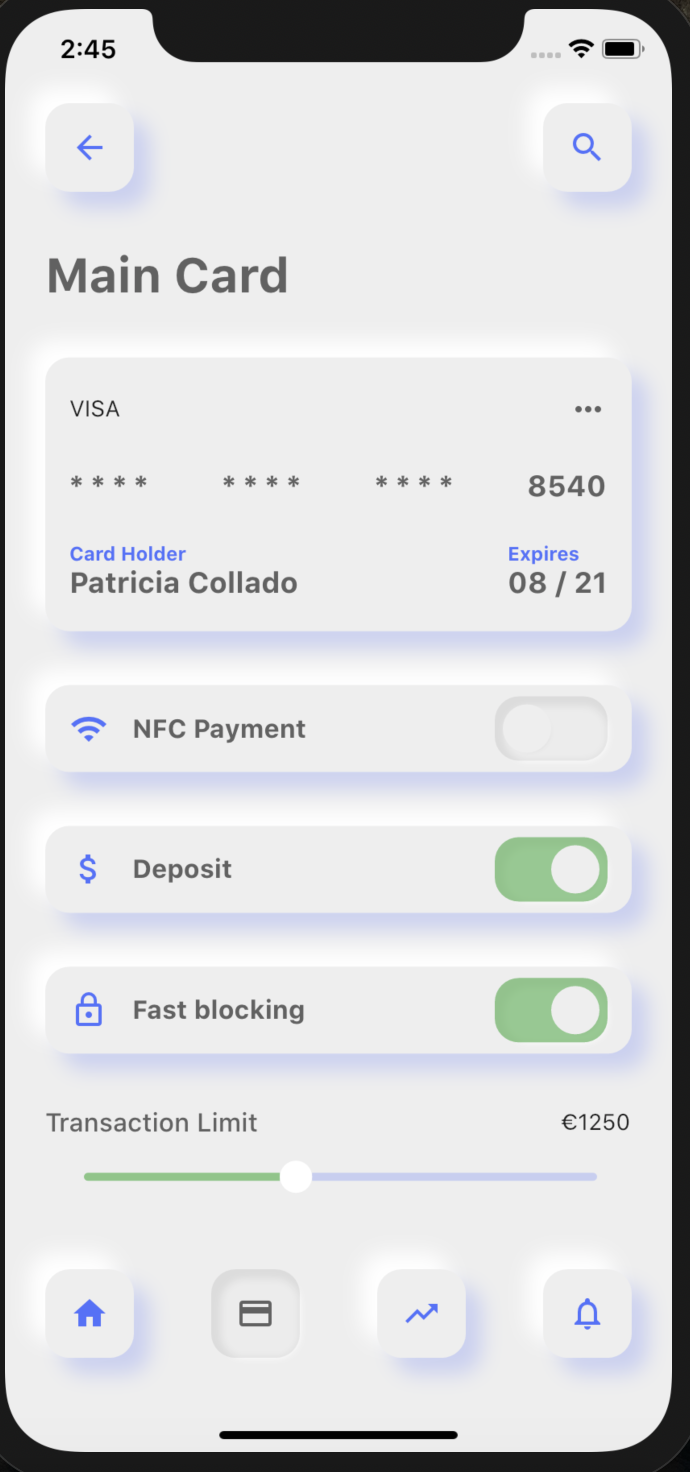
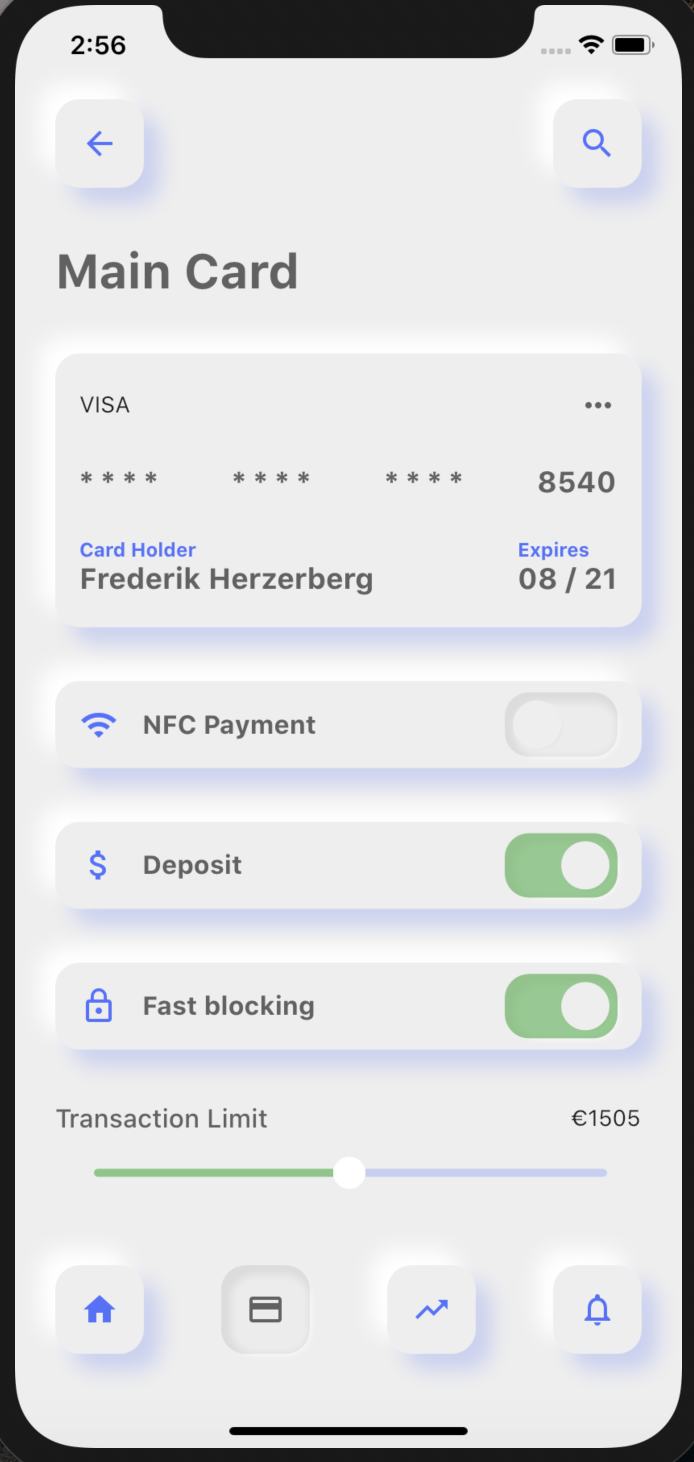
Adding image

diff --git a/lib/main.dart b/lib/main.dart
@@ -190,7 +190,7 @@ class CreditCard extends StatelessWidget {
                         color: fCL, fontSize: 12, fontWeight: FontWeight.w700),
                   ),
                   Text(
-                    'Patricia Collado',
+                    'Frederik Herzerberg',
                     style: TextStyle(
                         color: fCD, fontSize: 18, fontWeight: FontWeight.w700),
                   ),
